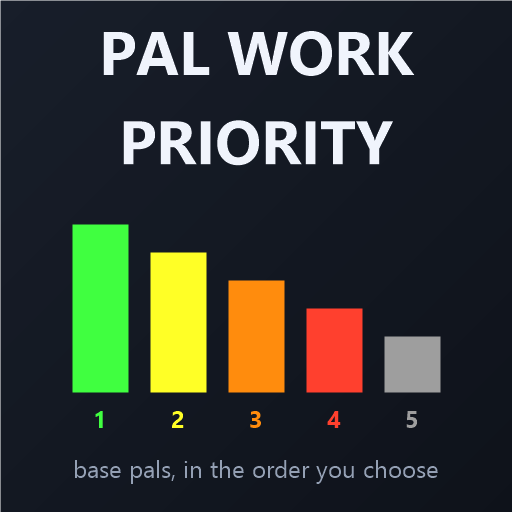
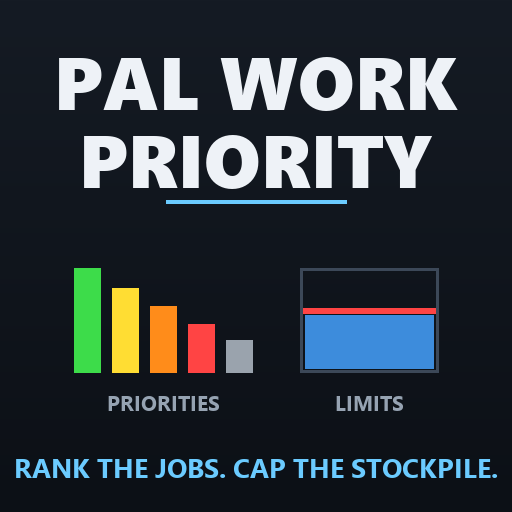
The thumbnail advertised half the mod, in lower case
Its tagline read "base pals, in the order you choose", which describes the
priority ordering and says nothing about production limits - the Ctrl+F9 panel
that is now the larger half of what this does. Somebody deciding from a
Workshop grid was being told about one feature.

Now both, as two symbols that do not need their labels read: descending
coloured bars for ranked jobs, and a stockpile filled to a red line for a
limit. The tagline is upper case and says what they are - "RANK THE JOBS. CAP
THE STOCKPILE."

Checked at the size it is actually judged at rather than at 512. The name
survives to 64px, the two symbols stay distinguishable to about 96, and the
small labels dissolve below 128 - which is why the symbols carry the meaning
and the labels only confirm it.

The generator is kept as tools/make_thumbnail.py so the next change is an edit
rather than a redraw.

diff --git a/tools/make_thumbnail.py b/tools/make_thumbnail.py
@@ -1,0 +1,96 @@
+"""Build the Workshop thumbnail.
+
+Two constraints drive the layout. It is judged in a Workshop grid at maybe a
+fifth of its size, so anything that needs reading at 512 is wasted; and the
+mod's headline feature is now Production Limits, which the old thumbnail did
+not mention at all - its tagline described only the priority ordering.
+
+So: the name large enough to survive downscaling, and two symbols side by side
+that say the two things the mod does without needing their labels read.
+"""
+
+from PIL import Image, ImageDraw, ImageFont
+
+S = 512
+BG_TOP = (21, 27, 36)
+BG_BOT = (12, 16, 22)
+WHITE = (238, 242, 247)
+DIM = (150, 163, 178)
+CYAN = (107, 203, 255)
+
+BARS = [
+    (61, 220, 74),
+    (255, 221, 51),
+    (255, 140, 26),
+    (255, 68, 68),
+    (154, 163, 173),
+]
+
+F = "C:/Windows/Fonts/"
+
+
+def font(name, size):
+    return ImageFont.truetype(F + name, size)
+
+
+img = Image.new("RGB", (S, S), BG_TOP)
+d = ImageDraw.Draw(img)
+
+# vertical gradient
+for y in range(S):
+    t = y / (S - 1)
+    d.line(
+        [(0, y), (S, y)],
+        fill=(
+            int(BG_TOP[0] + (BG_BOT[0] - BG_TOP[0]) * t),
+            int(BG_TOP[1] + (BG_BOT[1] - BG_TOP[1]) * t),
+            int(BG_TOP[2] + (BG_BOT[2] - BG_TOP[2]) * t),
+        ),
+    )
+
+
+def centre(text, f, y, fill):
+    w = d.textbbox((0, 0), text, font=f)[2]
+    d.text(((S - w) / 2, y), text, font=f, fill=fill)
+
+
+title = font("seguibl.ttf", 74)
+centre("PAL WORK", title, 30, WHITE)
+centre("PRIORITY", title, 108, WHITE)
+
+# a hairline under the title, the same accent the panel uses for selection
+d.rectangle([166, 200, S - 166, 203], fill=CYAN)
+
+# ---- left symbol: ranked jobs, descending bars ----
+lx, base_y = 74, 372
+bw, gap = 26, 12
+heights = [104, 84, 66, 48, 32]
+for i, (h, col) in enumerate(zip(heights, BARS)):
+    x = lx + i * (bw + gap)
+    d.rectangle([x, base_y - h, x + bw, base_y], fill=col)
+
+# ---- right symbol: a stockpile filled to its limit ----
+rx0, rx1 = 300, 438
+top, bot = base_y - 104, base_y
+d.rectangle([rx0, top, rx1, bot], outline=(60, 72, 88), width=3)
+
+# Contents up to the line, with air above so the line reads as a lid the
+# stack has met rather than something drawn through it. The first version ran
+# the rule past both edges of the box, which read as a strikethrough.
+fill_top = top + 40
+d.rectangle([rx0 + 5, fill_top + 7, rx1 - 5, bot - 4], fill=(61, 140, 220))
+d.rectangle([rx0 + 3, fill_top, rx1 - 3, fill_top + 5], fill=(255, 68, 68))
+
+label = font("segoeuib.ttf", 21)
+lw = d.textbbox((0, 0), "PRIORITIES", font=label)[2]
+d.text((lx + (5 * bw + 4 * gap - lw) / 2, base_y + 16), "PRIORITIES",
+       font=label, fill=DIM)
+lw = d.textbbox((0, 0), "LIMITS", font=label)[2]
+d.text((rx0 + ((rx1 - rx0) - lw) / 2, base_y + 16), "LIMITS",
+       font=label, fill=DIM)
+
+tag = font("segoeuib.ttf", 27)
+centre("RANK THE JOBS. CAP THE STOCKPILE.", tag, 448, CYAN)
+
+img.save("C:/Users/matra/Desktop/palworld-priority-mod/thumbnail.png")
+print("written 512x512")
